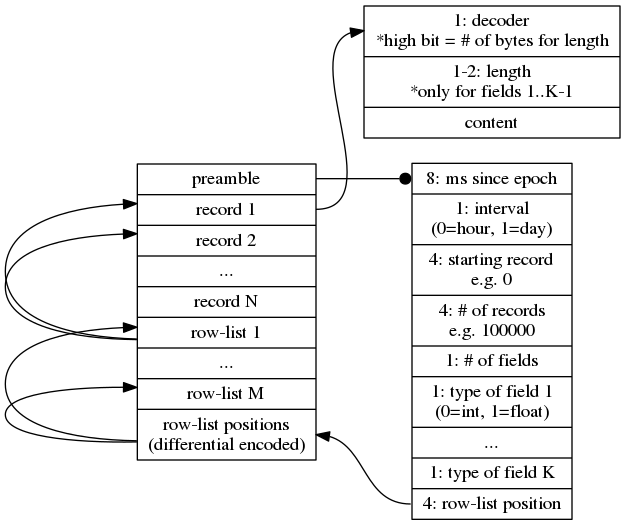
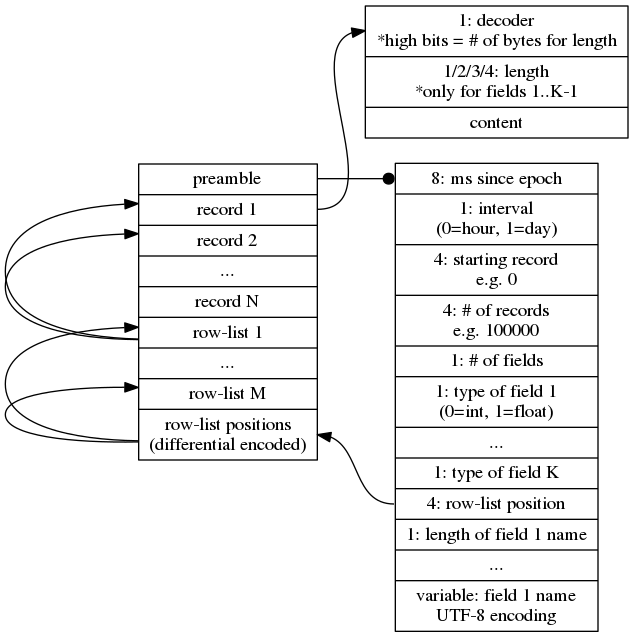
Include field names

Changed region(s): [[0.0, 0.0, 1.0, 1.0], [0.5472, 0.701, 0.5776, 0.7619], [0.5472, 0.8533, 0.5776, 0.8838]]

diff --git a/format/src/test/java/com/cldellow/manu/format/FieldTypeTest.java b/format/src/test/java/com/cldellow/manu/format/FieldTypeTest.java
@@ -9,7 +9,10 @@ public class FieldTypeTest {
     public void testRoundTrip() {
         assertEquals(0, FieldType.INT.getValue());
         assertEquals(FieldType.INT, FieldType.valueOf(0));
-        assertEquals(1, FieldType.FLOAT.getValue());
-        assertEquals(FieldType.FLOAT, FieldType.valueOf(1));
+        assertEquals(1, FieldType.FIXED1.getValue());
+        assertEquals(FieldType.FIXED1, FieldType.valueOf(1));
+        assertEquals(2, FieldType.FIXED2.getValue());
+        assertEquals(FieldType.FIXED2, FieldType.valueOf(2));
+
     }
 }

diff --git a/format/src/main/java/com/cldellow/manu/format/Writer.java b/format/src/main/java/com/cldellow/manu/format/Writer.java
@@ -1,13 +1,19 @@
 package com.cldellow.manu.format;
 
+import java.util.Iterator;
+
 public class Writer {
+    public static void dos(Object[] xs) {}
     public static void write(
             String file,
             long epochMs,
             Interval interval,
             int recordOffset,
             int numRecords,
-            FieldEncoderFactory[] encoderFactories
+            String[] fieldNames,
+            FieldType[] fieldTypes,
+            Iterator<Record> records
+
                         ) {
 
     }

diff --git a/format/src/main/java/com/cldellow/manu/format/FieldType.java b/format/src/main/java/com/cldellow/manu/format/FieldType.java
@@ -4,8 +4,9 @@ import java.util.HashMap;
 import java.util.Map;
 
 public enum FieldType {
-    INT(0),
-    FLOAT(1);
+    INT(0),     // an int
+    FIXED1(1),  // an int, divided by 10 on output
+    FIXED2(2);  // an int, divided by 100 on output
 
     private int value;
     private static Map map = new HashMap();

diff --git a/format/src/main/java/com/cldellow/manu/format/Record.java b/format/src/main/java/com/cldellow/manu/format/Record.java
@@ -1,0 +1,6 @@
+package com.cldellow.manu.format;
+
+public interface Record {
+    public int[] getValues(int field);
+    public FieldEncoder getEncoder(int field);
+}

diff --git a/format/src/main/java/com/cldellow/manu/format/FieldEncoder.java b/format/src/main/java/com/cldellow/manu/format/FieldEncoder.java
@@ -1,5 +1,4 @@
 package com.cldellow.manu.format;
 
 public interface FieldEncoder {
-    FieldType getFieldType();
 }

diff --git a/format/README.md b/format/README.md
@@ -19,6 +19,12 @@ Key IDs are contiguous. If a key is missing, it will have an entry in the pointe
 At 0.7 bytes/value: ~260MB for 1M items for a year at daily resolution.
 At 1 byte/value, ~370MB.
 
+### Encoders
+
+When serializing, a different encoder can be selected for each field in each record.
+
+Encoder 0 for integers and floats is the identity function - it just copies the input array.
+
 # Operations
 ## Reads
 - get-key key
